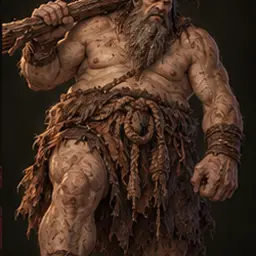
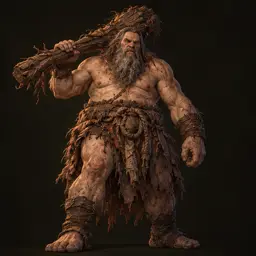
Regenerate the two headless monsters, and stop the crop leaving a gap
The ogre and the hill giant came out taller than their cell, so their heads were
simply not in the picture. Both redone with the whole creature inside its cell and
space above the head, and their faces re-measured.

Checking them surfaced a worse bug in the aiming. The translate was unbounded, so
a face near the top of the frame pulled the image down further than the zoom had
overflow to cover, and the top of the circle showed background. Scaling by z
leaves (z - 1) of overflow, half on each side, and the translate is scaled too, so
the shift cannot exceed (z - 1) / 2z. Most of these faces sit high enough to hit
that limit, which means they ride high in the circle rather than centred — correct,
and what the rendered check had been showing all along, because a crop cannot read
outside the image the way an unclamped transform tries to.

A test walks every portrait at three zooms and fails if any would expose an edge.

Claude-Session: https://claude.ai/code/session_01MHv1tqcgpyySy1GV2gbWz2

diff --git a/packages/web/src/art.test.ts b/packages/web/src/art.test.ts
@@ -165,12 +165,33 @@ describe('portraitFor', () => {
   })
 
   it('aims the zoom at the face', () => {
-    // A face already in the middle needs no shift; one high in the frame has to
-    // be pulled down into the circle.
+    // A face already in the middle needs no shift; one high in the frame is
+    // pulled down into the circle.
     expect(faceTransform('not-a-real-name')).toBe('scale(2) translate(0%, 0%)')
-    expect(faceTransform('hill-giant')).toBe('scale(2) translate(0%, 40%)')
-    expect(faceTransform('wererat')).toBe('scale(2) translate(-30%, 32%)')
-    expect(faceTransform('beholder', 1.5)).toBe('scale(1.5) translate(0%, 5%)')
+    expect(faceTransform('beholder')).toBe('scale(2) translate(0%, 5%)')
+  })
+
+  it('never shifts so far that the background shows through', () => {
+    // Scaling by z leaves (z - 1) of overflow to play with, half each side, and
+    // the translate is scaled as well. Past that limit the image edge comes
+    // inside the box and the circle gets a bite taken out of it.
+    for (const zoom of [1.5, 2, 3]) {
+      const limit = ((zoom - 1) / (2 * zoom)) * 100
+      for (const name of [...PORTRAIT_LIST, ...BESTIARY_LIST]) {
+        const [, x, y] = /translate\((-?[\d.]+)%, (-?[\d.]+)%\)/.exec(
+          faceTransform(name, zoom),
+        )!
+        expect(Math.abs(Number(x)), `${name} x at zoom ${zoom}`).toBeLessThanOrEqual(limit + 1e-9)
+        expect(Math.abs(Number(y)), `${name} y at zoom ${zoom}`).toBeLessThanOrEqual(limit + 1e-9)
+      }
+    }
+  })
+
+  it('clamps the faces that sit nearest the edge', () => {
+    // hill-giant's face is at 11% — well past what a 2x zoom can centre — so it
+    // rides as high in the circle as it can without leaving a gap.
+    expect(faceTransform('hill-giant')).toBe('scale(2) translate(-7%, 25%)')
+    expect(faceTransform('hill-giant', 3)).toBe('scale(3) translate(-7%, 33.33333333333333%)')
   })
 })
 

diff --git a/packages/web/src/art.ts b/packages/web/src/art.ts
@@ -104,8 +104,15 @@ export function faceOf(portrait: string | null | undefined): Face {
  */
 export function faceTransform(portrait: string | null | undefined, zoom = 2): string {
   const face = faceOf(portrait)
-  const dx = -(face.x - 50)
-  const dy = -(face.y - 50)
+  // How far the image can be shifted before its edge comes inside the box and
+  // the background shows through. Scaling by z leaves (z - 1) of overflow, half
+  // of it on each side, and the translate is scaled too — hence the 2z. Without
+  // this a face near the top of the frame pulls the image down far enough to
+  // leave a bite of empty background at the top of the circle.
+  const limit = ((zoom - 1) / (2 * zoom)) * 100
+  const clamp = (value: number): number => Math.max(-limit, Math.min(limit, value))
+  const dx = clamp(50 - face.x)
+  const dy = clamp(50 - face.y)
   return `scale(${zoom}) translate(${dx}%, ${dy}%)`
 }
 

diff --git a/.claude/skills/make-art/SKILL.md b/.claude/skills/make-art/SKILL.md
@@ -129,8 +129,16 @@ actually rendered and tiled — a four-legged creature carries its head low, whi
 opposite of the assumption that a standing figure's head is near the top. Always do the
 render-and-tile pass; it takes one command and catches what the eye missed.
 
-Two of the monster cells have no head in frame at all, because the creature was taller than
-its cell on the source sheet. No metadata fixes that — it needs regenerating.
+If a creature comes out taller than its cell, its head is simply not in the picture and no
+metadata will save it. Regenerate those: a 2×2 is plenty, and the instruction that works is
+that the *entire* creature including the top of its head must sit inside its own cell with
+clear space above it, framing smaller if that is what it takes.
+
+**Clamp the translate.** Scaling by `z` leaves `(z - 1)` of overflow, half on each side, and
+the translate is scaled too — so the shift cannot exceed `(z - 1) / 2z`. Past that the image
+edge comes inside the box and the circle gets a bite of background taken out of it. Most of
+these faces sit high enough to hit that limit, so they ride high in the circle rather than
+centred, which is correct and is what the rendered check shows.
 
 ## 7. Show the work
 
